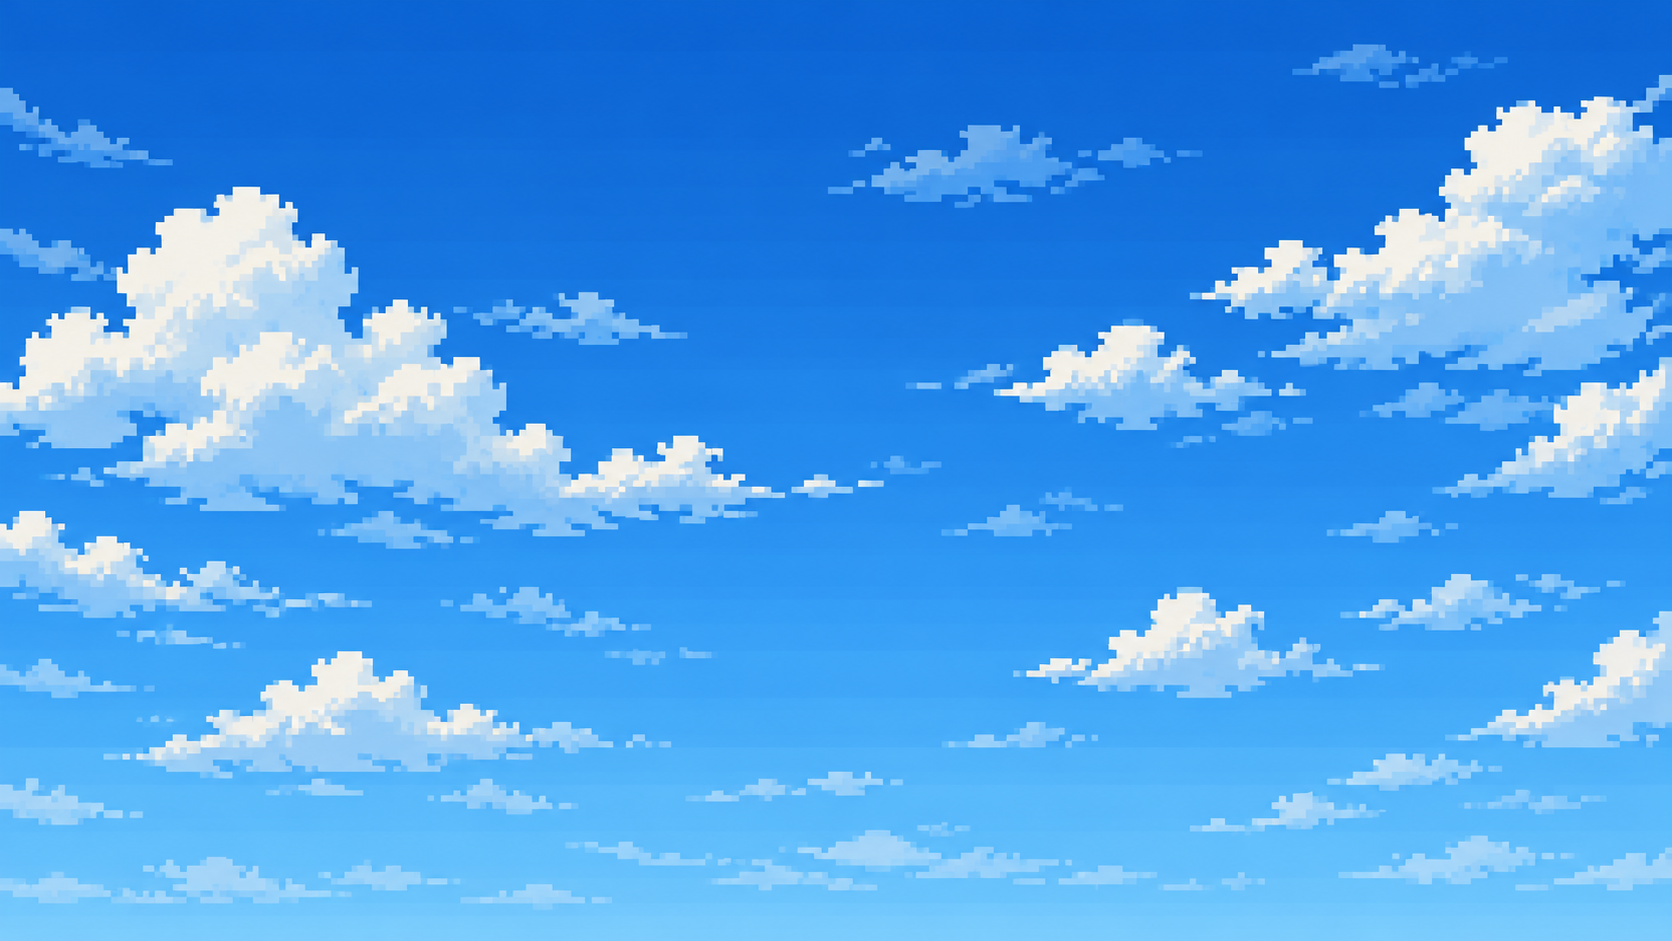
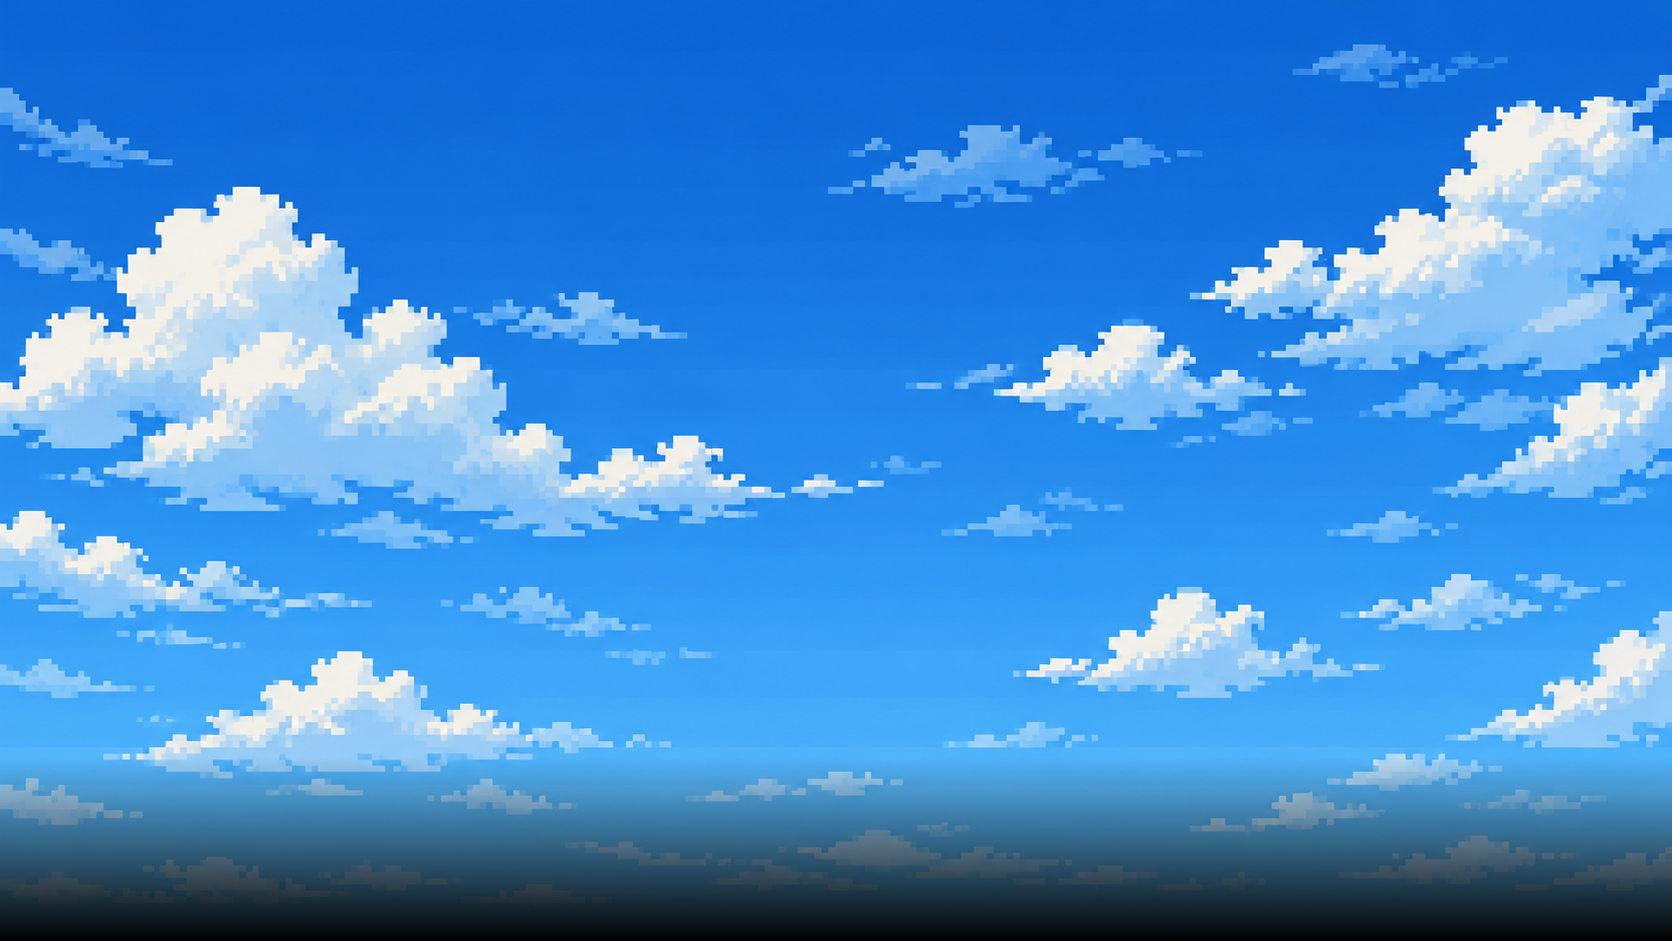
Save

Changed region(s): [[0.0, 0.8013, 1.0, 1.0]]

diff --git a/src/DEFAULT8THEME/SCENES/MAIN/SUB/WORLD8VIEW/WORLD8VIEW.CPP b/src/DEFAULT8THEME/SCENES/MAIN/SUB/WORLD8VIEW/WORLD8VIEW.CPP
@@ -59,6 +59,8 @@ namespace FORRADIA8GAME {
 
         auto tileGridSize{GAME8PROPERTIES::kTileGridSize_};
 
+        auto yOffset{_<GAME8PROPERTIES>().kWorldViewYOffset_};
+
         auto numGridRows{tileGridSize - 11};
         auto numGridColumns{tileGridSize - 11};
 
@@ -137,7 +139,7 @@ namespace FORRADIA8GAME {
                                    x * tileHeight / 2 + y * tileHeight / 2 +
                                    playerElevation * tileHeight / 4 -
                                    playerMoveDx * tileHeight / 2 -
-                                   playerMoveDy * tileHeight / 2};
+                                   playerMoveDy * tileHeight / 2 + yOffset};
 
                 auto tileY{tileYOriginal};
 
@@ -298,8 +300,6 @@ namespace FORRADIA8GAME {
                                                    objectHeight);
                 }
 
-                auto tileYCopy{tileYOriginal};
-
                 auto npc{tile->npc_};
 
                 if (npc) {
@@ -342,7 +342,8 @@ namespace FORRADIA8GAME {
                                      5 * tileWidth / 2};
 
                     auto tileYPlayer{0.5F - 5.5F * tileHeight +
-                                     5 * tileHeight / 2 + 5 * tileHeight / 2};
+                                     5 * tileHeight / 2 + 5 * tileHeight / 2 +
+                                     yOffset};
 
                     _<IMAGE8RENDERER>().DRAW8IMAGE("Player", tileXPlayer,
                                                    tileYPlayer - tileHeight,

diff --git a/src/DEFAULT8THEME/SCENES/MAIN/SUB/FIRST8PERSON8VIEW/FIRST8PERSON8VIEW.CPP b/src/DEFAULT8THEME/SCENES/MAIN/SUB/FIRST8PERSON8VIEW/FIRST8PERSON8VIEW.CPP
@@ -555,8 +555,8 @@ namespace FORRADIA8GAME {
         _<IMAGE8RENDERER>().DRAW8IMAGE("HandRight", rightHandX, handY,
                                        handWidth, handHeight, kHandsOpacity_);
 
-        _<COLOR8RENDERER>().DRAW8LINE(viewWidth, 0.0F, viewWidth, 1.0F,
-                                      COLORS::kWhite);
+        // _<COLOR8RENDERER>().DRAW8LINE(viewWidth, 0.0F, viewWidth, 1.0F,
+        //                               COLORS::kWhite);
 
         if (now < _<PLAYER>().ticksLastHitOnSelf_ + kHitSelfEffectDuration_)
             _<COLOR8RENDERER>().FILL8RECT(viewWidth, 0.0F, viewWidth, 1.0F,
@@ -584,5 +584,16 @@ namespace FORRADIA8GAME {
         }
 
         _<SDL8DEVICE>().RESET8CLIP();
+
+        _<COLOR8RENDERER>().FILL8RECT(viewWidth - kBorderWidth_ / 2, 0.0F,
+                                      kBorderWidth_, 1.0F, COLORS::kDarkGray);
+
+        _<COLOR8RENDERER>().DRAW8LINE(viewWidth - kBorderWidth_ / 2, 0.0F,
+                                      viewWidth - kBorderWidth_ / 2, 1.0F,
+                                      COLORS::kGray);
+
+        _<COLOR8RENDERER>().DRAW8LINE(viewWidth + kBorderWidth_ / 2, 0.0F,
+                                      viewWidth + kBorderWidth_ / 2, 1.0F,
+                                      COLORS::kGray);
     }
 }

diff --git a/src/DEFAULT8THEME/SCENES/MAIN/SUB/TILE8HOVERING.CPP b/src/DEFAULT8THEME/SCENES/MAIN/SUB/TILE8HOVERING.CPP
@@ -37,6 +37,8 @@ namespace FORRADIA8GAME {
 
         auto tileGridSize{GAME8PROPERTIES::kTileGridSize_};
 
+        auto yOffset{_<GAME8PROPERTIES>().kWorldViewYOffset_};
+
         auto numGridRows{tileGridSize - 11};
         auto numGridColumns{tileGridSize - 11};
 
@@ -60,7 +62,7 @@ namespace FORRADIA8GAME {
                            y * tileHeight / 2 +
                            playerElevation * tileHeight / 4 -
                            playerMoveDx * tileHeight / 2 -
-                           playerMoveDy * tileHeight / 2};
+                           playerMoveDy * tileHeight / 2 + yOffset};
 
                 auto centerBottom{
                     POINT8F{tileX + tileWidth / 2, tileY + tileHeight / 2}};

diff --git a/src/COMMON/MATTER/COLORING/COLORS.HPP b/src/COMMON/MATTER/COLORING/COLORS.HPP
@@ -21,5 +21,7 @@ namespace FORRADIA8GAME {
         inline static constexpr COLOR kBlueGray{0.3F, 0.35F, 0.55F, 1.0F};
         inline static constexpr COLOR kVeryDarkBlue{0.0F, 0.0F, 0.1F, 1.0F};
         inline static constexpr COLOR kMildBlue{0.0F, 0.6F, 1.0F, 1.0F};
+        inline static constexpr COLOR kGray{0.5F, 0.5F, 0.5F, 1.0F};
+        inline static constexpr COLOR kDarkGray{0.2F, 0.2F, 0.2F, 1.0F};
     }
 }

diff --git a/src/CORE/CONFIGURATION/GAME8PROPERTIES.HPP b/src/CORE/CONFIGURATION/GAME8PROPERTIES.HPP
@@ -21,5 +21,6 @@ namespace FORRADIA8GAME {
         static constexpr POINT8F kFirstPersonViewMargin_{0.03F, 0.01F};
         static constexpr float kImpactPointWidth_{0.005F};
         static constexpr float kHoveringLabelYOffset_{-0.03F};
+        static constexpr float kWorldViewYOffset_{0.07F};
     };
 }

diff --git a/src/DEFAULT8THEME/SCENES/MAIN/SUB/FIRST8PERSON8VIEW/FIRST8PERSON8VIEW.HPP b/src/DEFAULT8THEME/SCENES/MAIN/SUB/FIRST8PERSON8VIEW/FIRST8PERSON8VIEW.HPP
@@ -24,5 +24,6 @@ namespace FORRADIA8GAME {
         static constexpr int kImpactPointEffectDuration_{100};
         static constexpr float kWieldedObjectScale_{0.15F};
         static constexpr float kHandsOpacity_{0.5F};
+        static constexpr float kBorderWidth_{0.01F};
     };
 }
